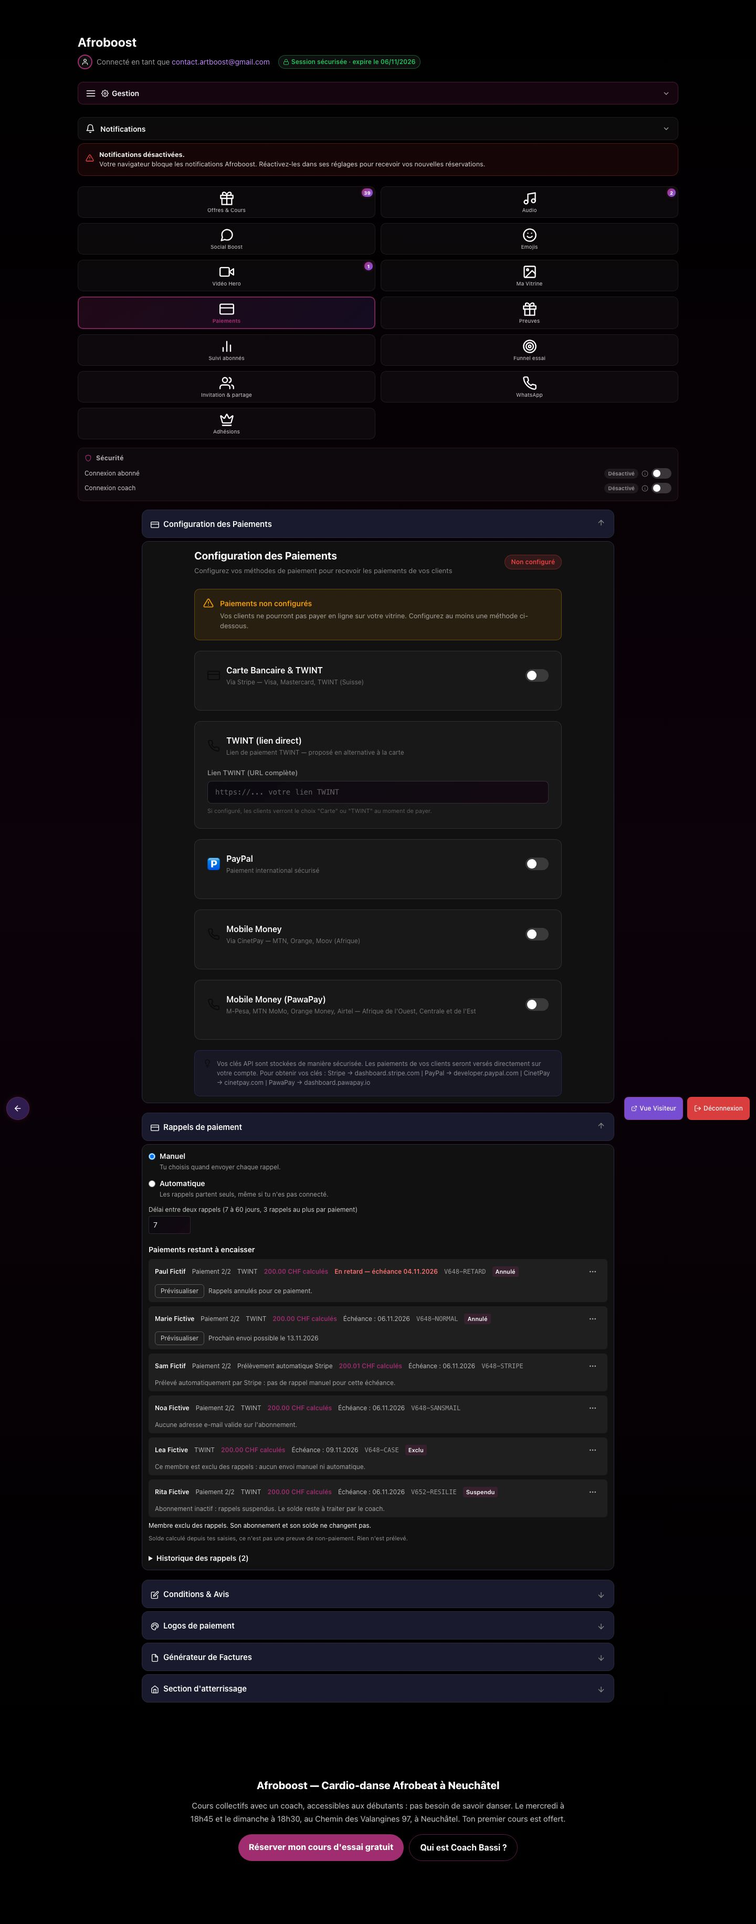
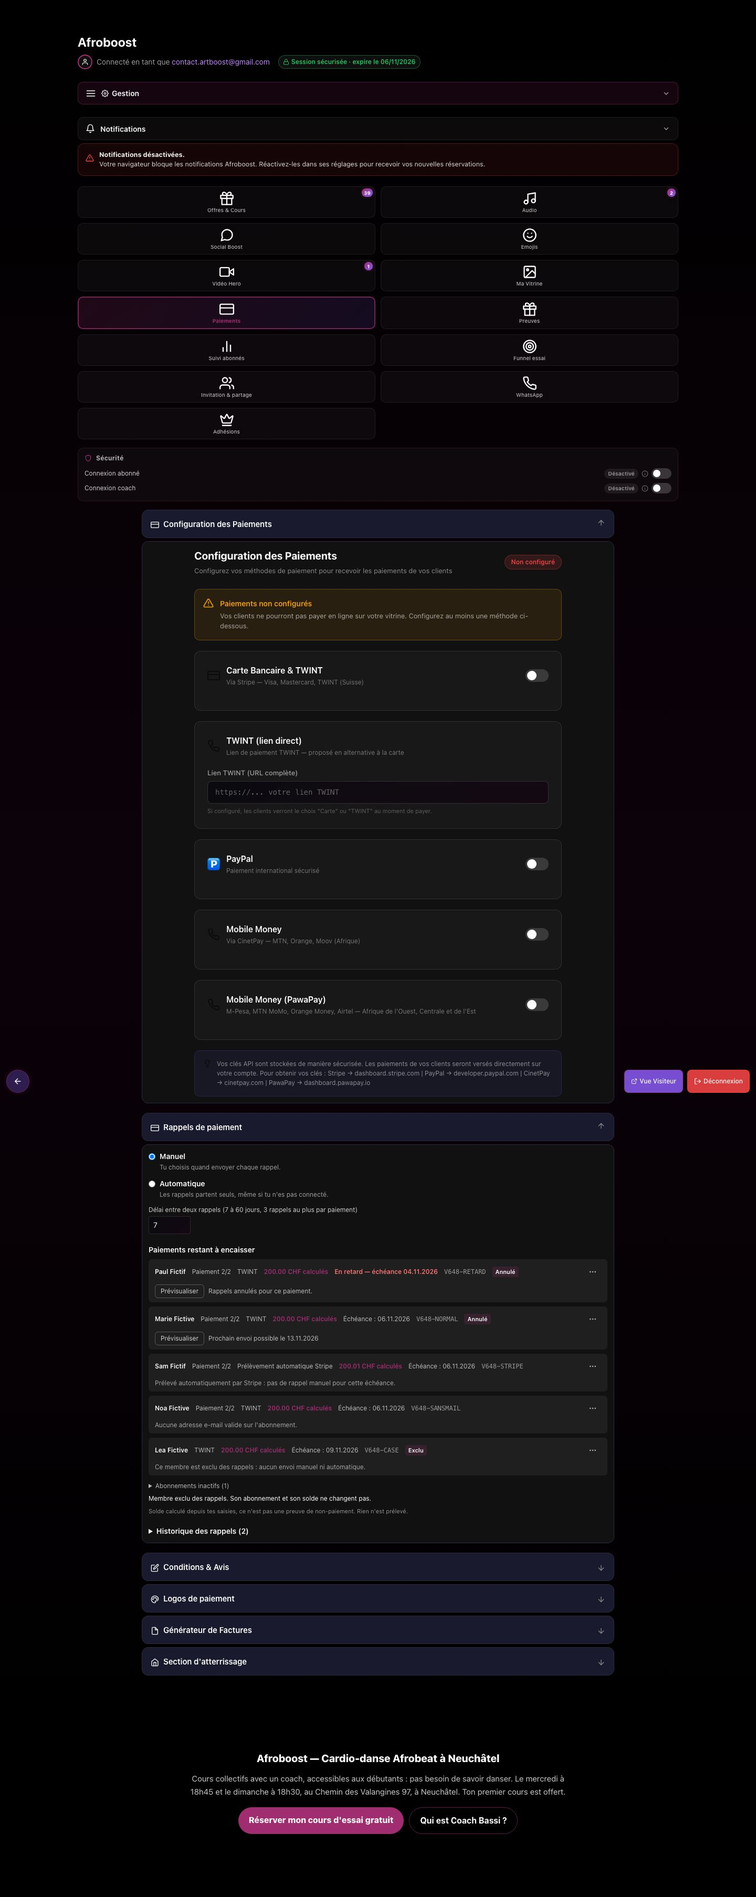
V652b — Rappels : reprise volontaire des rappels futurs, abonnements inactifs à part
- Le coach peut reprendre les rappels futurs d'un paiement, sur confirmation et sans aucun envoi
- Historique conservé, délai et plafond inchangés, anciennes échéances ignorées par l'automatique
- Abonnements inactifs dans une section repliée, montants inchangés

diff --git a/frontend/src/components/dashboard/RappelPaiement.js b/frontend/src/components/dashboard/RappelPaiement.js
@@ -32,6 +32,8 @@ export const LIBELLES_STATUT = {
   en_cours: 'Envoi en cours',
   annule: 'Annulé',
   annule_tous: 'Rappels futurs annulés',
+  annule_tous_leve: 'Rappels futurs annulés, puis repris',
+  reprise: 'Rappels futurs repris',
 };
 
 const STYLE_FENETRE = { background: 'var(--background-color, #0a0a0a)', borderColor: 'rgba(var(--primary-rgb, 217, 28, 210), 0.35)' };
@@ -581,7 +583,11 @@ const ACTIONS_MEMBRE = {
   },
   annuler_tous: {
     titre: 'Annuler les rappels futurs', url: 'annuler', portee: 'tous', confirmer: 'Annuler les rappels futurs',
-    texte: "Plus aucun rappel pour ce paiement, ni manuel ni automatique. Le solde ne change pas. Cette annulation n'est pas réversible.",
+    texte: "Plus aucun rappel pour ce paiement, ni manuel ni automatique, tant que tu ne les reprends pas. Le solde ne change pas.",
+  },
+  reprendre: {
+    titre: 'Reprendre les rappels futurs', url: 'reprendre', confirmer: 'Reprendre les rappels',
+    texte: "Rien n'est envoyé maintenant. Les rappels déjà annulés ne repartent pas. Le délai et le plafond s'appliquent, et l'automatique ne revient pas sur une échéance déjà passée.",
   },
   exclure: {
     titre: 'Exclure ce membre', url: 'exclure', confirmer: 'Exclure ce membre',
@@ -781,6 +787,15 @@ export default function RappelsPaiementSection() {
     }
   };
 
+  // V652 : les abonnements inactifs gardent leur solde, à part, pour ne pas encombrer la liste principale.
+  const actives = (lignes || []).filter((l) => l.motif !== 'abonnement_suspendu');
+  const inactives = (lignes || []).filter((l) => l.motif === 'abonnement_suspendu');
+  const afficherLigne = (l) => (
+    <LigneRappel key={l.subscription_id} ligne={l}
+      onOuvrir={(ligne, envoi) => { setEnvoiDemande(envoi); setCible(ligne); }}
+      onAction={(ligne, nom) => { setNoteAction(''); setAction({ ligne, action: nom }); }} />
+  );
+
   return (
     <div className="space-y-5" data-testid="v648-section">
       {!envoiReel && (
@@ -802,15 +817,13 @@ export default function RappelsPaiementSection() {
         <p className="text-white text-sm font-semibold mb-2">Paiements restant à encaisser</p>
         {lignes === null && <p className="text-xs text-white/60">Chargement…</p>}
         {erreurListe && <p className="text-sm text-red-400" data-testid="v648-liste-erreur">{erreurListe}</p>}
-        {lignes && !lignes.length && !erreurListe && <p className="text-xs text-white/60" data-testid="v648-liste-vide">Aucun paiement restant.</p>}
-        {lignes && lignes.length > 0 && (
-          <ul className="space-y-2" data-testid="v648-liste">
-            {lignes.map((l) => (
-              <LigneRappel key={l.subscription_id} ligne={l}
-                onOuvrir={(ligne, envoi) => { setEnvoiDemande(envoi); setCible(ligne); }}
-                onAction={(ligne, nom) => { setNoteAction(''); setAction({ ligne, action: nom }); }} />
-            ))}
-          </ul>
+        {lignes && !actives.length && !erreurListe && <p className="text-xs text-white/60" data-testid="v648-liste-vide">Aucun paiement restant.</p>}
+        {actives.length > 0 && <ul className="space-y-2" data-testid="v648-liste">{actives.map(afficherLigne)}</ul>}
+        {inactives.length > 0 && (
+          <details className="mt-3" data-testid="v652-inactifs">
+            <summary className="text-xs text-white/70 cursor-pointer">Abonnements inactifs ({inactives.length})</summary>
+            <ul className="space-y-2 mt-2">{inactives.map(afficherLigne)}</ul>
+          </details>
         )}
         {noteAction && <p className="text-xs text-white mt-2" data-testid="v652-note">{noteAction}</p>}
         <p className="text-white/40 text-[11px] mt-2">

diff --git a/frontend/src/components/dashboard/__tests__/RappelPaiement.test.js b/frontend/src/components/dashboard/__tests__/RappelPaiement.test.js
@@ -420,6 +420,38 @@ describe('menu ⋯ : annuler, exclure, réactiver', () => {
     expect(axios.post.mock.calls[0][1]).toEqual(corps);
   });
 
+  test('reprendre : proposé seulement si le serveur le permet, avec confirmation', async () => {
+    axios.post.mockResolvedValue({ data: { message: 'Rappels repris.' } });
+    await ouvrir(ligne({ actions: { reprendre: true, exclure: true } }));
+    expect($('v652-action-annuler_tous-CODE-1')).toBeNull();
+    await clic($('v652-action-reprendre-CODE-1'));
+    await attendre('v652-confirmer');
+    expect(axios.post).not.toHaveBeenCalled();
+    expect($('v652-confirmer').textContent).toContain('Rien n\'est envoyé');
+    await clic($('v652-confirmer-action'));
+    expect(axios.post.mock.calls[0][0].endsWith('/reprendre')).toBe(true);
+    expect(axios.post.mock.calls[0][1]).toEqual({ confirmation: true });
+    expect((await attendre('v652-note')).textContent).toBe('Rappels repris.');
+  });
+
+  test('abonnements inactifs : à part, repliés, avec leur solde', async () => {
+    brancher({ lignes: [ligne(), ligne({ code: 'CODE-I', subscription_id: 'si', motif: 'abonnement_suspendu', possible: false, statut_rappel: { code: 'suspendu', libelle: 'Suspendu' } })] });
+    await monter();
+    await attendre('v648-ligne-CODE-1');
+    expect($('v648-liste').querySelector('[data-testid="v648-ligne-CODE-I"]')).toBeNull();
+    expect($('v652-inactifs').open).toBe(false);
+    expect($('v652-inactifs').querySelector('summary').textContent).toBe('Abonnements inactifs (1)');
+    expect($('v652-inactifs').textContent).toContain('200.00 CHF');
+  });
+
+  test('seulement des abonnements inactifs : pas de liste principale', async () => {
+    brancher({ lignes: [ligne({ motif: 'abonnement_suspendu', possible: false })] });
+    await monter();
+    await attendre('v652-inactifs');
+    expect($('v648-liste')).toBeNull();
+    expect($('v648-liste-vide')).not.toBeNull();
+  });
+
   test('réactiver : la bonne route, rien d\'autre', async () => {
     axios.post.mockResolvedValue({ data: { message: 'Rappels réactivés.' } });
     await ouvrir(ligne({ actions: { reactiver: true } }));

diff --git a/tests/test_v648_rappel_paiement.py b/tests/test_v648_rappel_paiement.py
@@ -704,7 +704,7 @@ async def tests_v652(db, cl, faux, A, P):
     print("── V652 : permissions")
     await semer(db, flag=True)
     faux.Emails.__init__()
-    for route in ("annuler", "exclure", "reactiver"):
+    for route in ("annuler", "exclure", "reactiver", "reprendre"):
         r = await cl.post(URL % ("s1", route), json={"confirmation": True, "portee": "tous"})
         v(f"{route} sans jeton : 403", r.status_code == 403, r.status_code)
         r = await cl.post(URL % ("s1", route), headers={"X-User-Email": rp.SUPER_ADMIN_EMAIL}, json={"confirmation": True, "portee": "tous"})
@@ -724,7 +724,7 @@ async def tests_v652(db, cl, faux, A, P):
     print("── V652 : annuler ce rappel")
     avant = await _empreinte_finance(db)
     L = await _ligne_de(cl, A, "CODE-1")
-    v("menu : les trois actions d'une ligne ordinaire", L["actions"] == {"annuler_un": True, "annuler_tous": True, "exclure": True, "reactiver": False}, L["actions"])
+    v("menu : les trois actions d'une ligne ordinaire", L["actions"] == {"annuler_un": True, "annuler_tous": True, "reprendre": False, "exclure": True, "reactiver": False}, L["actions"])
     r = await cl.post(URL % ("s1", "annuler"), headers=A, json={"confirmation": True, "portee": "un", "numero": 2})
     v("numéro périmé : refus, rien d'annulé", r.status_code == 409 and r.json()["detail"]["type"] == "etat_change" and await db[rp.COL_RAPPELS].count_documents({}) == 0, r.text)
     r = await cl.post(URL % ("s1", "annuler"), headers=A, json={"confirmation": True, "portee": "un", "numero": 1, "motif": "Payé en espèces"})
@@ -797,6 +797,65 @@ async def tests_v652(db, cl, faux, A, P):
     L = await _ligne_de(cl, A, "CODE-1")
     v("paiement 3 sur 3, le 2 réellement encaissé : les rappels reprennent pour lui seul", L["possible"] is True and L["envoi"]["peut_envoyer"] is True and L["statut_rappel"]["code"] != "annule", L)
 
+    print("── V652 : reprendre les rappels futurs")
+    await semer(db, flag=True)
+    faux.Emails.__init__()
+    await cl.put("/api/rappels-paiement/reglages", headers=A, json={"mode": "AUTOMATIQUE", "delais": ["J-3", "J0", "J+3"], "confirmation_auto": True})
+    await _drapeaux(db, DRAPEAU_AUTO=True)
+    await db.subscriptions.update_one({"id": "s1"}, {"$set": {"suivi_paiement.prochaine_echeance": D(-2)}})
+    r = await cl.post(URL % ("s1", "reprendre"), headers=A, json={"confirmation": True})
+    v("rien à reprendre : refus", r.status_code == 409 and r.json()["detail"]["type"] == "pas_annule", r.text)
+    await cl.post(URL % ("s1", "annuler"), headers=A, json={"confirmation": True, "portee": "tous", "motif": "Arrangement"})
+    L = await _ligne_de(cl, A, "CODE-1")
+    v("le menu propose de reprendre, plus d'annuler", L["actions"]["reprendre"] is True and L["actions"]["annuler_tous"] is False, L["actions"])
+    avant = await _empreinte_finance(db)
+    n = len(faux.Emails.appels)
+    res = await asyncio.gather(cl.post(URL % ("s1", "reprendre"), headers=A, json={"confirmation": True, "motif": "Le membre a demandé"}),
+                               cl.post(URL % ("s1", "reprendre"), headers=A, json={"confirmation": True}))
+    v("double clic simultané : une seule reprise", sorted(x.status_code for x in res) == [200, 409], [x.text for x in res])
+    v("la reprise n'envoie rien", len(faux.Emails.appels) == n)
+    v("abonnement et code intacts", await _empreinte_finance(db) == avant)
+    h = {x["statut"]: x for x in (await cl.get("/api/rappels-paiement/historique", headers=A)).json()["historique"]}
+    v("historique : l'annulation reste, la reprise s'ajoute", set(h) >= {"annule_tous_leve", "reprise"} and h["annule_tous_leve"]["motif_action"] == "Arrangement", h)
+    v("reprise : date et coach", h["reprise"]["annule_le"] and h["reprise"]["envoye_par"] == rp.SUPER_ADMIN_EMAIL.lower())
+    L = await _ligne_de(cl, A, "CODE-1")
+    v("éligibilité recalculée : rappel manuel de nouveau possible", L["possible"] is True and L["envoi"]["peut_envoyer"] is True and L["statut_rappel"] is None, L)
+    await rp.passage_automatique()
+    v("l'automatique ne revient pas sur l'échéance passée", not any(x[0]["to"] == ["cliente@example.test"] for x in faux.Emails.appels), faux.Emails.appels)
+    s_ = {x["code"]: x for x in (await cl.get("/api/rappels-paiement/simulation", headers=A)).json()["lignes"]}
+    v("simulation : même réponse", s_["CODE-1"]["motif_exclusion"] == "echeance_ancienne", s_["CODE-1"])
+    await db.subscriptions.update_one({"id": "s1"}, {"$set": {"suivi_paiement.prochaine_echeance": D(0)}})
+    await rp.passage_automatique()
+    v("une échéance non passée repart, une fois", len([x for x in faux.Emails.appels if x[0]["to"] == ["cliente@example.test"]]) == 1, faux.Emails.appels)
+    await rp.passage_automatique()
+    v("aucun doublon au passage suivant", len([x for x in faux.Emails.appels if x[0]["to"] == ["cliente@example.test"]]) == 1)
+    r = await cl.post(URL % ("s1", "annuler"), headers=A, json={"confirmation": True, "portee": "tous"})
+    v("annuler de nouveau : possible", r.status_code == 200 and r.json().get("deja") is None, r.text)
+    r = await cl.post(URL % ("s1", "reprendre"), headers=A, json={"confirmation": True})
+    v("reprendre après un envoi : le délai est rappelé", r.status_code == 200 and "Relance possible" in r.json()["message"], r.text)
+    r = await _envoi_ui(cl, A, "s1")
+    v("la reprise ne contourne pas les 7 jours", r.status_code == 409, r.text)
+
+    await semer(db, flag=True)
+    faux.Emails.__init__()
+    await cl.post(URL % ("s1", "annuler"), headers=A, json={"confirmation": True, "portee": "un", "numero": 1})
+    await cl.post(URL % ("s1", "annuler"), headers=A, json={"confirmation": True, "portee": "tous"})
+    await cl.post(URL % ("s1", "reprendre"), headers=A, json={"confirmation": True})
+    v("un rappel annulé garde sa place après la reprise", await db[rp.COL_RAPPELS].count_documents({"subscription_id": "s1", "statut": "annule"}) == 1
+      and (await _ligne_de(cl, A, "CODE-1"))["envoi"]["numero"] == 2, await _ligne_de(cl, A, "CODE-1"))
+    await db[rp.COL_RAPPELS].delete_many({"subscription_id": "s1"})
+    await cl.post(URL % ("s1", "annuler"), headers=A, json={"confirmation": True, "portee": "tous"})
+    r = await cl.post(URL % ("s1", "reprendre"), headers=P, json={"confirmation": True})
+    v("un autre coach ne reprend pas : 404", r.status_code == 404, r.status_code)
+    await cl.post(URL % ("s1", "exclure"), headers=A, json={"confirmation": True})
+    r = await cl.post(URL % ("s1", "reprendre"), headers=A, json={"confirmation": True})
+    v("membre exclu : la reprise est refusée, l'annulation reste", r.status_code == 409 and r.json()["detail"]["type"] == "membre_exclu"
+      and await db[rp.COL_RAPPELS].count_documents({"subscription_id": "s1", "statut": "annule_tous"}) == 1, r.text)
+    await semer(db, flag=True)
+    await cl.post(URL % ("s-lea", "annuler"), headers=P, json={"confirmation": True, "portee": "tous"})
+    r = await cl.post(URL % ("s-lea", "reprendre"), headers=P, json={"confirmation": True})
+    v("un partenaire reprend pour son propre client", r.status_code == 200, r.text)
+
     print("── V652 : exclure et réactiver")
     await semer(db, flag=True)
     faux.Emails.__init__()
@@ -812,7 +871,7 @@ async def tests_v652(db, cl, faux, A, P):
     r = await cl.post("/api/rappels-paiement/s1/envoyer", headers=A, json={"confirmation": True, "empreinte": _a_vieux["empreinte"]})
     v("Envoyer malgré l'aperçu déjà ouvert : refus", r.status_code == 409 and r.json()["detail"]["type"] == "membre_exclu" and not faux.Emails.appels, r.text)
     L = await _ligne_de(cl, A, "CODE-1")
-    v("statut Exclu, solde affiché, seule action : réactiver", L["statut_rappel"]["code"] == "exclu" and L["reste_a_payer"] == 200 and L["actions"] == {"annuler_un": False, "annuler_tous": False, "exclure": False, "reactiver": True}, L)
+    v("statut Exclu, solde affiché, seule action : réactiver", L["statut_rappel"]["code"] == "exclu" and L["reste_a_payer"] == 200 and L["actions"] == {"annuler_un": False, "annuler_tous": False, "reprendre": False, "exclure": False, "reactiver": True}, L)
     a = (await cl.get("/api/rappels-paiement/s1/apercu", headers=A)).json()
     v("aperçu : impossible, avec le motif", a["possible"] is False and a["motif"] == "membre_exclu")
     await rp.passage_automatique()
@@ -856,7 +915,7 @@ async def tests_v652(db, cl, faux, A, P):
     await db.subscriptions.update_one({"id": "s1"}, {"$set": {"status": "cancelled"}})
     L = await _ligne_de(cl, A, "CODE-1")
     v("ligne gardée, statut Suspendu, solde affiché", L["statut_rappel"]["code"] == "suspendu" and L["reste_a_payer"] == 200 and L["possible"] is False, L)
-    v("exclure reste possible, pas annuler", L["actions"] == {"annuler_un": False, "annuler_tous": False, "exclure": True, "reactiver": False}, L["actions"])
+    v("exclure reste possible, pas annuler", L["actions"] == {"annuler_un": False, "annuler_tous": False, "reprendre": False, "exclure": True, "reactiver": False}, L["actions"])
     await rp.passage_automatique()
     v("aucun rappel automatique", not any(x[0]["to"] == ["cliente@example.test"] for x in faux.Emails.appels))
     r = await _envoi_ui(cl, A, "s1")

diff --git a/api/routes/rappels_paiement.py b/api/routes/rappels_paiement.py
@@ -113,6 +113,7 @@ COL_EXCLUSIONS = "rappels_paiement_exclusions"     # V652 : un membre exclu, par
 # V652 : un abonnement remplacé ou archivé n'est plus une dette à suivre. Tout autre statut non actif suspend les rappels.
 STATUTS_SANS_SUSPENSION = ("active", "superseded", "archived", "")
 MOTIF_ACTION_MAX = 200
+STATUTS_TRACE = ("annule_tous", "annule_tous_leve", "reprise")     # des décisions du coach, sans rang d'envoi
 DRAPEAU_ENVOI_REEL = "RAPPEL_PAIEMENT_ENVOI_REEL"
 DRAPEAU_AUTO = "RAPPEL_PAIEMENT_AUTO_ACTIF"
 DRAPEAU_TEST = "RAPPEL_PAIEMENT_TEST_CONTROLE"
@@ -432,7 +433,7 @@ def decision_relance(docs, delai_jours, maintenant, paiement=None) -> dict:
     _dates = [_date_effet(d) for d in _partis]
     if any(x is None for x in _dates):
         return _refus_incertain(next(d for d in _partis if _date_effet(d) is None))
-    _ici = [d for d in docs if d.get("statut") != "annule_tous" and (not paiement or d.get("subscription_id") == paiement.get("sub"))]
+    _ici = [d for d in docs if d.get("statut") not in STATUTS_TRACE and (not paiement or d.get("subscription_id") == paiement.get("sub"))]
     _der = max(_ici, key=lambda d: int(d.get("rang") or 1)) if _ici else None
     _rang_suivant = int((_der or {}).get("rang") or 0) + 1
     if _dates and maintenant < max(_dates) + _delai:
@@ -834,6 +835,13 @@ async def _exclusion(ctx: dict) -> dict:
     return next((d for d in _docs if d.get("actif") is True), None) or (_docs[0] if _docs else None)
 
 
+async def _jour_de_reprise(ctx: dict) -> str:
+    """Après une réactivation ou une reprise : l'automatique ne revient pas sur les échéances déjà passées."""
+    _jours = [str((await _exclusion(ctx) or {}).get("reprise_jour") or "")]
+    _jours += [str(d.get("reprise_jour") or "") for d in await _docs_abonnement(ctx["sub"].get("id"), ctx) if d.get("statut") == "reprise"]
+    return max(_jours)
+
+
 async def _verdict(ctx: dict, maintenant=None, ignorer_fenetre=False) -> dict:
     if (await _exclusion(ctx) or {}).get("actif") is True:
         return {"ok": False, "motif": "membre_exclu", "message": MOTIFS["membre_exclu"]}
@@ -985,7 +993,7 @@ async def _ligne_liste(ctx: dict, maintenant: datetime, admin: bool = False) -> 
     _reg = await db[COL_REGLAGES].find_one({"_id": _cle_reglages(ctx.get("proprio"))}, {"mode": 1, "delais": 1, "auto_actif_depuis": 1}) or {}
     _auto = _reg.get("mode") == MODE_AUTOMATIQUE and await _drapeau(DRAPEAU_AUTO)
     _jalons = []
-    _reprise = str((await _exclusion(ctx) or {}).get("reprise_jour") or "")
+    _reprise = await _jour_de_reprise(ctx)
     if _auto and _dec and _dec["action"] != "refus" and not _va.get("incomplet") and _ech and _ech >= max(str(_reg.get("auto_actif_depuis") or "9999"), _reprise):
         try:
             _jalons = jalons_simulation(_ech, delais_du_reglage(_reg), maintenant, _delai)
@@ -995,7 +1003,8 @@ async def _ligne_liste(ctx: dict, maintenant: datetime, admin: bool = False) -> 
     _ligne["statut_rappel"] = statut_affiche(_va, _dec, _jalons[0]["date"] if _jalons else None)
     _exclu = _v.get("motif") == "membre_exclu"
     _ligne["actions"] = {"annuler_un": bool(_dec) and (_dec["action"] != "refus" or (_dec.get("type") == "deja_envoye" and (_dec.get("numero_suivant") or 9) <= MAX_RAPPELS_PAR_ECHEANCE)),
-                         "annuler_tous": bool(_dec) and _dec.get("type") != "annule_tous", "exclure": not _exclu, "reactiver": _exclu}
+                         "annuler_tous": bool(_dec) and _dec.get("type") != "annule_tous", "reprendre": bool(_dec) and _dec.get("type") == "annule_tous",
+                         "exclure": not _exclu, "reactiver": _exclu}
     return _ligne
 
 
@@ -1381,7 +1390,7 @@ async def simuler_automatique(request: Request):
         _ech = _vue.get("prochaine_echeance")
         _exclu = _v.get("motif") if not _v["ok"] else ("suivi_incomplet" if _v.get("incomplet") else None)
         _depuis = _reg.get("auto_actif_depuis")
-        _reprise = str((await _exclusion(_ctx) or {}).get("reprise_jour") or "")
+        _reprise = await _jour_de_reprise(_ctx)
         if _exclu is None and _ech and ((_depuis and _ech < _depuis) or _ech < _reprise):
             _exclu = "echeance_ancienne"
         _jalons, _msg_dec = [], ""
@@ -1586,7 +1595,8 @@ async def annuler_rappel(sub_id: str, corps: ActionRappel, request: Request):
     _docs = await _docs_interrompus_inscrits(sub_id, _maintenant, _ctx)
 
     if corps.portee == "tous":
-        _cle = "%s|annule_tous|%s|%s" % (sub_id, _paiement["numero"], _paiement["encaisse"])
+        _reprises = await db[COL_RAPPELS].count_documents({"subscription_id": sub_id, "statut": "annule_tous_leve"})
+        _cle = "%s|annule_tous|%s|%s|%d" % (sub_id, _paiement["numero"], _paiement["encaisse"], _reprises)
         try:
             await db[COL_RAPPELS].insert_one(dict(_champs_annulation(sub_id, _ctx, _paiement, _email, _motif, _iso, "annule_tous"), _id=_cle, rang=0, cree_le=_iso))
         except DuplicateKeyError:
@@ -1617,6 +1627,32 @@ async def annuler_rappel(sub_id: str, corps: ActionRappel, request: Request):
         except DuplicateKeyError:
             raise HTTPException(status_code=409, detail={"type": "en_cours", "message": MSG_EN_COURS})
     return {"annule": True, "message": "Rappel annulé."}
+
+
+@router.post("/api/rappels-paiement/{sub_id}/reprendre")
+async def reprendre_rappels(sub_id: str, corps: ActionRappel, request: Request):
+    """Lève « annuler les rappels futurs », sur décision du coach. N'envoie rien. Les rappels déjà annulés gardent leur
+    place, le délai et le plafond s'appliquent, et l'automatique ne revient pas sur une échéance déjà passée."""
+    _email, _admin, _ctx, _motif = await _contexte_action(sub_id, corps, request)
+    _v = await _verdict(_ctx, ignorer_fenetre=True)
+    if not _v["ok"]:
+        raise HTTPException(status_code=409, detail={"type": _v["motif"], "message": _v["message"]})
+    _maintenant = datetime.now(timezone.utc)
+    _iso = _maintenant.isoformat()
+    _paiement = paiement_attendu(sub_id, _ctx["sub"])
+    _docs = await _docs_interrompus_inscrits(sub_id, _maintenant, _ctx)
+    _cibles = [d for d in _docs if d.get("statut") == "annule_tous" and classer_paiement(d, _paiement) != "distinct"]
+    _repris = 0
+    for _d in _cibles:
+        # Conditionnel : un double clic ne reprend qu'une fois, et la décision d'annulation reste dans l'historique.
+        if await db[COL_RAPPELS].find_one_and_update({"_id": _d["_id"], "statut": "annule_tous"}, {"$set": {"statut": "annule_tous_leve", "maj_le": _iso}}):
+            _repris += 1
+            await db[COL_RAPPELS].insert_one(dict(_champs_annulation(sub_id, _ctx, _paiement, _email, _motif, _iso, "reprise"),
+                                                  _id=_d["_id"] + "|reprise", rang=0, cree_le=_iso, reprise_jour=v617_jour_local(_maintenant)))
+    if not _repris:
+        raise HTTPException(status_code=409, detail={"type": "pas_annule", "message": "Les rappels de ce paiement ne sont pas annulés."})
+    _dec = decision_relance(await _docs_abonnement(sub_id, _ctx), await _delai_relance(_ctx), _maintenant, _paiement)
+    return {"repris": True, "message": "Rappels repris. Rien n'a été envoyé. " + (_dec.get("message") if _dec["action"] == "refus" else "Le prochain rappel suivra les règles habituelles.")}
 
 
 @router.post("/api/rappels-paiement/{sub_id}/exclure")
@@ -1797,7 +1833,7 @@ async def passage_automatique(maintenant: datetime = None) -> dict:
             _bilan["ecartes"] += 1
             continue
         # V652 : réactiver un membre ne réexpédie pas ses anciennes échéances. L'automatique reprend aux échéances suivantes.
-        if _v["echeance"] < str((await _exclusion(_ctx) or {}).get("reprise_jour") or ""):
+        if _v["echeance"] < await _jour_de_reprise(_ctx):
             _bilan["ecartes"] += 1
             continue
         _delai = await _delai_relance(_ctx)

diff --git a/tests/nonregression.py b/tests/nonregression.py
@@ -3306,9 +3306,9 @@ def t166_v648_rappel_paiement_ferme():
                          requests.delete(_url(base + "/modele"), headers=h, timeout=TIMEOUT).status_code,
                          requests.post(_url(base + "/aide-ia"), json={}, headers=h, timeout=TIMEOUT).status_code,
                          requests.post(_url(base + "/nonregression-v648/apercu"), json={}, headers=h, timeout=TIMEOUT).status_code]
-        # V652 : annuler, exclure, réactiver. Identifiant FICTIF : refusé avant toute lecture.
+        # V652 : annuler, reprendre, exclure, réactiver. Identifiant FICTIF : refusé avant toute lecture.
         statuts[nom] += [requests.post(_url(base + "/nonregression-v648/" + route), json={"confirmation": True, "portee": "tous"}, headers=h, timeout=TIMEOUT).status_code
-                         for route in ("annuler", "exclure", "reactiver")]
+                         for route in ("annuler", "reprendre", "exclure", "reactiver")]
     record(166, "V648 rappel de paiement : routes refusées sans jeton",
            all(s == 403 for l in statuts.values() for s in l),
            f"{statuts} envoi_reel={drapeaux.get('RAPPEL_PAIEMENT_ENVOI_REEL')} test={drapeaux.get('RAPPEL_PAIEMENT_TEST_CONTROLE')} auto={drapeaux.get('RAPPEL_PAIEMENT_AUTO_ACTIF')}")
